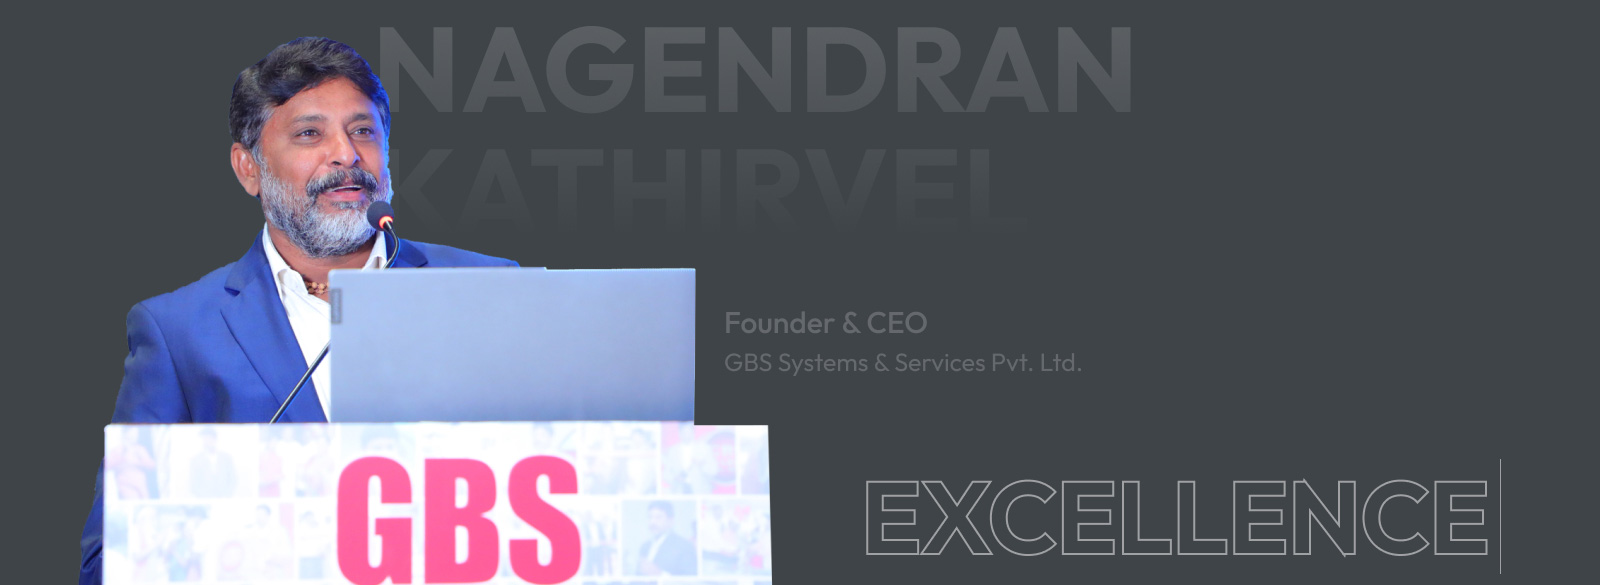
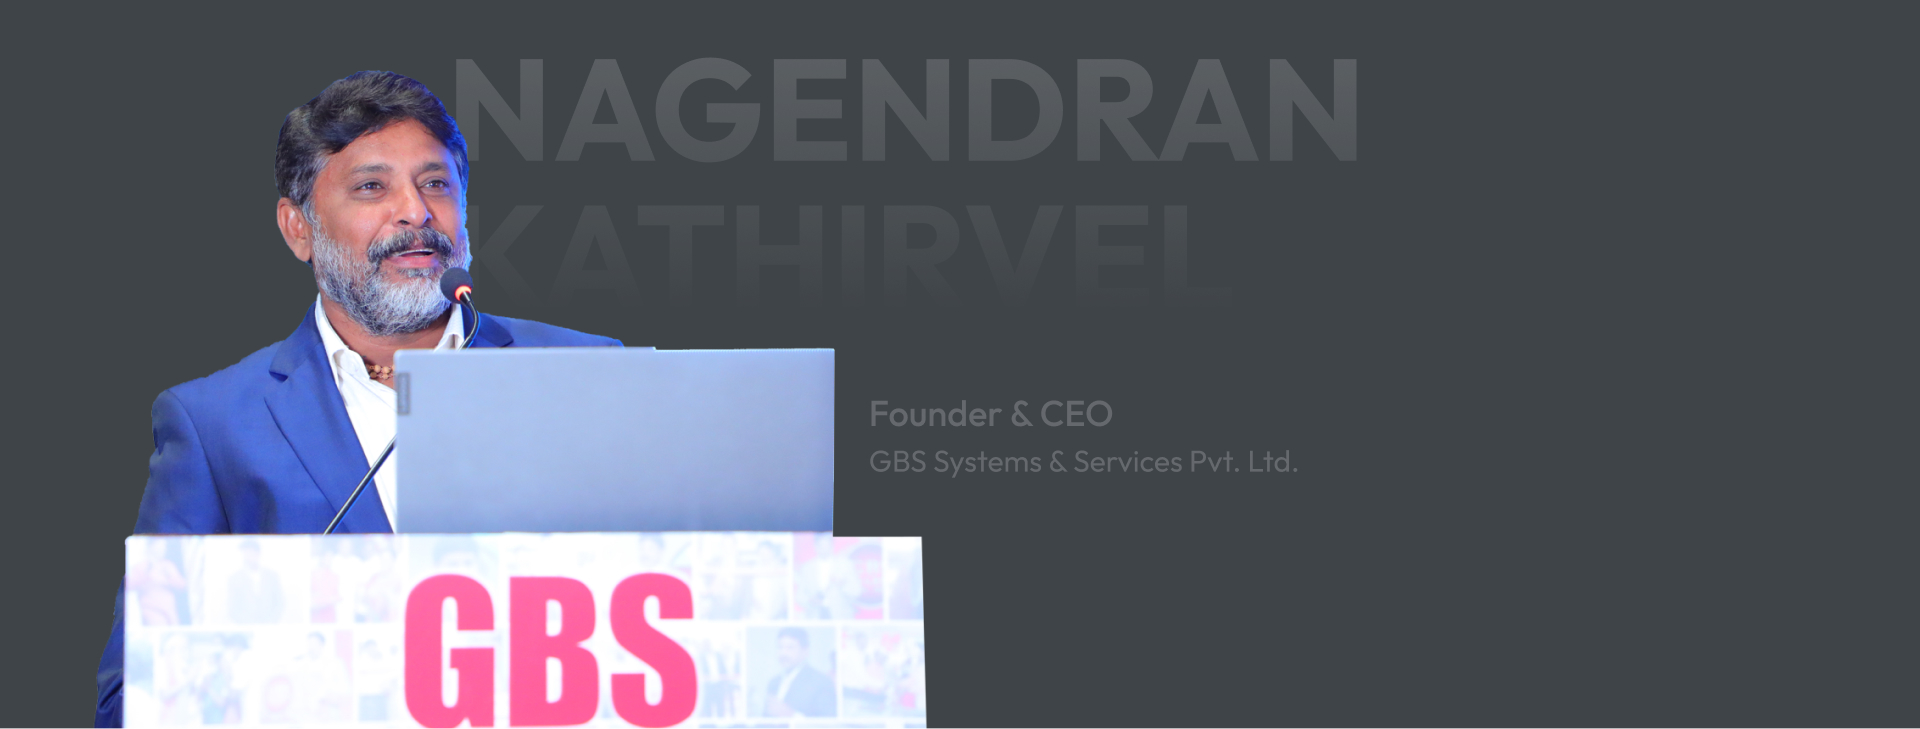
FIX : About Text Animation Update

diff --git a/src/components/AboutUs/AboutBanner.jsx b/src/components/AboutUs/AboutBanner.jsx
@@ -1,14 +1,21 @@
-import React from 'react'
 import banner from "assets/images/banner-1.jpg";
+import ReactTypingEffect from "react-typing-effect";
 
 function AboutBanner() {
   return (
     <div>
-    <section className="p-0">
-        <div className='col-lg-12 col-md-12 col-sm-12'>
-        <img className='w-100' src={banner} alt="banner-pic" />
+      <section className="p-0 mt-lg-5">
+        <div className='col-lg-12 col-md-12 col-sm-12 position-relative'>
+          <img className='w-100' src={banner} alt="banner-pic" />
+          <ReactTypingEffect
+            className="about-text"
+            text={["Excellence", "Resilience", "Determination", "Leadership", "Passion", "Ambitious", "Humility"]}
+            typingDelay={500}
+            eraseDelay={500}
+            cursorRenderer={cursor => <span className="text-dark fw-light">{cursor}</span>}
+          />
         </div>
-    </section>
+      </section>
     </div>
   )
 }

diff --git a/src/components/AboutUs/styles.css b/src/components/AboutUs/styles.css
@@ -2,6 +2,20 @@
   background-color: #292929;
 }
 
+.about-text {
+  font-family: 'Outfit';
+  font-style: normal;
+  font-weight: 600;
+  font-size: 6vw;
+  text-transform: uppercase;
+  position: absolute;
+  bottom: 20px;
+  right: 20px;
+  z-index: 1;
+  color: #3f4448;
+  text-shadow: 0 0 3px white;
+}
+
 .awardspage-section {
   padding: 300px 0px 80px;
   margin-top: -240px;
@@ -537,7 +551,7 @@
   }
 }
 
-.ceo-msg h1{
+.ceo-msg h1 {
   font-family: Outfit;
   font-size: 30px;
   font-weight: 600;
